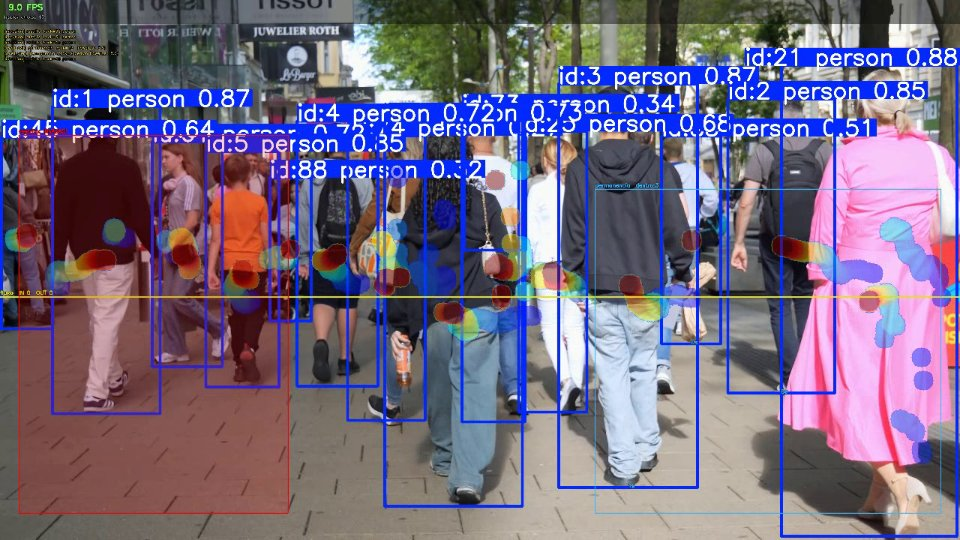
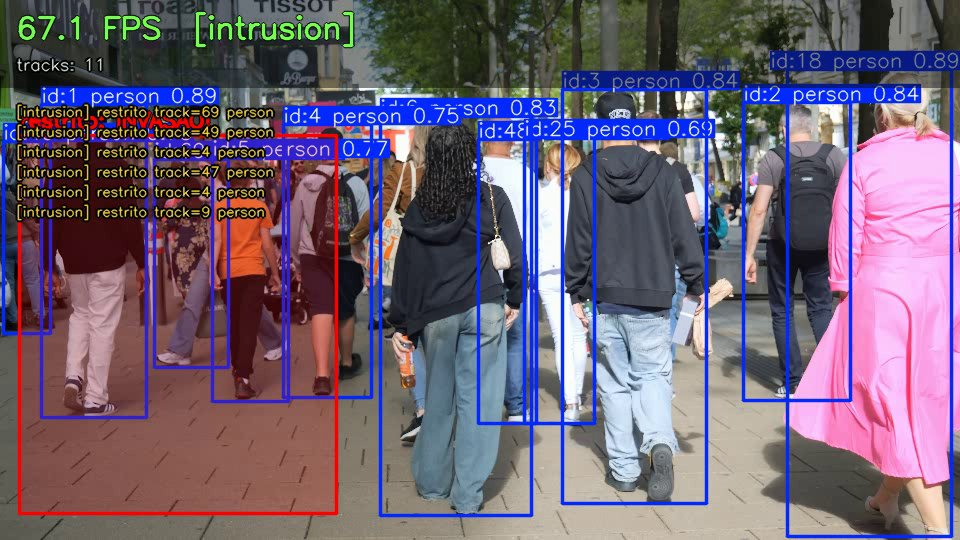
analytics: 1 solucao/video, event-only e keep-on-GPU (sem derrubar FPS)
- VideoAnalytics: annotate=False (event-only, so' eventos = producao), proc_max_side
  (processa em N px), decoder='auto' usa cudacodec + resize na GPU p/ arquivos
  (baixa frame pequeno -> elimina contencao PCIe/CPU do download 4K)
- examples/analytics_live.py: --solution (uma por vez), --no-annotate, --proc; mede FPS
- README: padrao 1 camera=1 solucao + numeros de performance

Resultado (4K real, RTX 3050, YOLO11n+ByteTrack): event-only ~120 fps, anotado ~67 fps
(antes ~12 fps baixando 4K + 4 solucoes). Itens 1-2 + alavanca keep-on-GPU do item 4.

diff --git a/examples/analytics_live.py b/examples/analytics_live.py
@@ -1,11 +1,14 @@
 #!/usr/bin/env python3
-"""Analytics ao vivo: YOLO11 + ByteTrack + soluções (contagem / dwell / heatmap / invasão).
+"""Analytics ao vivo — UMA solução por vídeo, com FPS medido.
 
-    .venv-yolo/bin/python examples/analytics_live.py [video.mp4|rtsp://...|webcam]
-    .venv-yolo/bin/python examples/analytics_live.py video.mp4 --record out.mp4
+    # produção (event-only, FPS cheio, sem desenhar):
+    .venv-yolo/bin/python examples/analytics_live.py video.mp4 --solution counting --no-annotate
 
-Mostra: caixas + IDs de track, linha de contagem (IN/OUT), zona de invasão (alerta),
-mapa de calor, e um HUD com FPS + últimos eventos. Teclas: q/ESC sai.
+    # ao vivo com janela (desenha; processa em 960px p/ não derrubar FPS):
+    .venv-yolo/bin/python examples/analytics_live.py video.mp4 --solution intrusion
+
+Soluções: counting | dwell | heatmap | intrusion   (uma por vez)
+Teclas (janela): q/ESC sai.
 """
 from __future__ import annotations
 import os, sys, time, argparse, glob, collections
@@ -18,6 +21,20 @@ except ModuleNotFoundError:
 import cv2
 from gpuvideo.analytics import (VideoAnalytics, LineCounter, IntrusionZone,
                                 Heatmap, DwellZone)
+
+
+def make_solution(kind, alerts):
+    if kind == "counting":
+        return LineCounter([(0.0, 0.55), (1.0, 0.55)], name="fluxo")
+    if kind == "dwell":
+        return DwellZone([(0.3, 0.3), (0.95, 0.3), (0.95, 0.95), (0.3, 0.95)],
+                         name="permanencia", alert_s=5)
+    if kind == "heatmap":
+        return Heatmap()
+    if kind == "intrusion":
+        return IntrusionZone([(0.02, 0.25), (0.35, 0.25), (0.35, 0.95), (0.02, 0.95)],
+                             name="restrito", on_alert=lambda e: alerts.append(e))
+    raise SystemExit(f"solução desconhecida: {kind}")
 
 
 def pick_source(arg):
@@ -38,65 +55,70 @@ def shadow(img, txt, org, scale, color, th=2):
 def main():
     ap = argparse.ArgumentParser()
     ap.add_argument("source", nargs="?", default=None)
+    ap.add_argument("--solution", default="counting",
+                    choices=["counting", "dwell", "heatmap", "intrusion"])
     ap.add_argument("--model", default="yolo11n.pt")
+    ap.add_argument("--proc", type=int, default=960, help="lado maior p/ processar (acelera)")
+    ap.add_argument("--no-annotate", action="store_true", help="event-only (produção)")
     ap.add_argument("--record", default=None)
     ap.add_argument("--seconds", type=float, default=20.0)
     a = ap.parse_args()
 
     src = pick_source(a.source)
-    print(f"Fonte: {src} | modelo: {a.model}")
-
-    # Soluções (coords normalizadas 0-1): linha no meio, zona de invasão à esquerda, heatmap.
     alerts = []
-    va = (VideoAnalytics(src, model=a.model, classes=["person"])
-          .add(Heatmap())
-          .add(LineCounter([(0.0, 0.55), (1.0, 0.55)], name="fluxo"))
-          .add(DwellZone([(0.62, 0.35), (0.98, 0.35), (0.98, 0.95), (0.62, 0.95)],
-                         name="permanencia", alert_s=5))
-          .add(IntrusionZone([(0.02, 0.25), (0.30, 0.25), (0.30, 0.95), (0.02, 0.95)],
-                             name="restrito", on_alert=lambda e: alerts.append(e))))
+    annotate = not a.no_annotate          # event-only desliga o desenho (FPS cheio)
+    va = VideoAnalytics(src, model=a.model, classes=["person"],
+                        annotate=annotate, proc_max_side=a.proc)
+    va.add(make_solution(a.solution, alerts))
+    print(f"Fonte: {src} | solução: {a.solution} | annotate={annotate} | proc={a.proc}px")
 
-    use_window = not a.record and (os.environ.get("DISPLAY") or os.environ.get("WAYLAND_DISPLAY"))
+    use_window = annotate and not a.record and (os.environ.get("DISPLAY") or os.environ.get("WAYLAND_DISPLAY"))
     if use_window:
         cv2.namedWindow("gpuvideo analytics", cv2.WINDOW_AUTOSIZE)
     writer = None
-    times = collections.deque(maxlen=30)
+    times = collections.deque(maxlen=60)
     log = collections.deque(maxlen=6)
     t0 = time.perf_counter()
+    n = 0
 
     for frame, tracks, events in va.run():
-        now = time.perf_counter(); times.append(now)
+        now = time.perf_counter(); times.append(now); n += 1
         fps = (len(times) - 1) / (times[-1] - times[0]) if len(times) > 1 else 0.0
         for e in events:
             log.appendleft(str(e)); print(e, flush=True)
 
-        # HUD
-        h, w = frame.shape[:2]
-        sub = frame[0:96, 0:w].copy(); cv2.rectangle(sub, (0, 0), (w, 96), (15, 15, 15), -1)
-        frame[0:96, 0:w] = cv2.addWeighted(sub, 0.5, frame[0:96, 0:w], 0.5, 0)
-        shadow(frame, f"{fps:4.1f} FPS", (16, 40), 1.1, (80, 255, 120), 3)
-        shadow(frame, f"tracks ativos: {len(tracks)}", (16, 74), 0.6, (230, 230, 230), 1)
-        for i, line in enumerate(log):
-            shadow(frame, line[:70], (16, 130 + i * 22), 0.5, (60, 220, 255), 1)
-
-        disp = frame if w <= 1280 else cv2.resize(frame, (1280, int(h * 1280 / w)))
-        if use_window:
-            cv2.imshow("gpuvideo analytics", disp)
-            if (cv2.waitKey(1) & 0xFF) in (ord("q"), 27):
-                break
-        else:
-            if writer is None:
-                writer = cv2.VideoWriter(a.record, cv2.VideoWriter_fourcc(*"mp4v"),
-                                         25, (disp.shape[1], disp.shape[0]))
-            writer.write(disp)
+        if frame is not None:  # modo annotate
+            h, w = frame.shape[:2]
+            sub = frame[0:88, 0:w].copy(); cv2.rectangle(sub, (0, 0), (w, 88), (15, 15, 15), -1)
+            frame[0:88, 0:w] = cv2.addWeighted(sub, 0.5, frame[0:88, 0:w], 0.5, 0)
+            shadow(frame, f"{fps:4.1f} FPS  [{a.solution}]", (16, 38), 1.0, (80, 255, 120), 2)
+            shadow(frame, f"tracks: {len(tracks)}", (16, 70), 0.55, (230, 230, 230), 1)
+            for i, line in enumerate(log):
+                shadow(frame, line[:64], (16, 116 + i * 20), 0.45, (60, 220, 255), 1)
+            if use_window:
+                cv2.imshow("gpuvideo analytics", frame)
+                if (cv2.waitKey(1) & 0xFF) in (ord("q"), 27):
+                    break
+            elif a.record:
+                if writer is None:
+                    writer = cv2.VideoWriter(a.record, cv2.VideoWriter_fourcc(*"mp4v"),
+                                             25, (w, h))
+                writer.write(frame)
+                if time.perf_counter() - t0 >= a.seconds:
+                    break
+        else:  # event-only: imprime FPS periodicamente
+            if n % 30 == 0:
+                print(f"  ... {fps:.1f} fps | {n} frames", flush=True)
             if time.perf_counter() - t0 >= a.seconds:
                 break
 
+    dt = time.perf_counter() - t0
     if writer is not None:
         writer.release(); print("gravado em", a.record)
     if use_window:
         cv2.destroyAllWindows()
-    print(f"\nResumo: {len(alerts)} alerta(s) de invasão.")
+    print(f"\nMédia: {n/dt:.1f} fps em {dt:.1f}s | solução={a.solution} | "
+          f"{len(alerts)} alerta(s)")
 
 
 if __name__ == "__main__":

diff --git a/src/gpuvideo/analytics.py b/src/gpuvideo/analytics.py
@@ -273,7 +273,9 @@ class VideoAnalytics:
 
     def __init__(self, source, model="yolo11n.pt", classes: Optional[Sequence[str]] = None,
                  imgsz=640, device="0", tracker="bytetrack.yaml",
-                 backend="gstreamer", engine="gpu", solutions=None):
+                 backend="gstreamer", engine="gpu", solutions=None,
+                 annotate=True, proc_max_side: Optional[int] = None,
+                 decoder="auto"):
         self.source = source
         self.model_name = model
         self.classes = list(classes) if classes else None
@@ -283,6 +285,14 @@ class VideoAnalytics:
         self.backend = backend
         self.engine = engine
         self.solutions: List[Solution] = list(solutions) if solutions else []
+        # annotate=False -> só eventos (produção/bus), sem desenhar = FPS cheio.
+        # proc_max_side -> redimensiona o frame antes de processar (coords são
+        #   normalizadas, então não muda o resultado das soluções; só acelera).
+        self.annotate = annotate
+        self.proc_max_side = proc_max_side
+        # decoder: "auto" usa cudacodec (NVDEC nativo + resize na GPU, baixa só o
+        # frame pequeno -> evita contenção PCIe/CPU do download 4K); senão GStreamer.
+        self.decoder = decoder
 
     def add(self, solution: Solution) -> "VideoAnalytics":
         self.solutions.append(solution)
@@ -306,19 +316,40 @@ class VideoAnalytics:
         """Generator: (frame_anotado, tracks, events) por frame."""
         from ultralytics import YOLO
         from . import VideoStream
+        from .cudacodec import cudacodec_available, CudaCodecStream
         model = YOLO(self.model_name)
         class_ids = None
         if self.classes:
             inv = {v: k for k, v in model.names.items()}
             class_ids = [inv[c] for c in self.classes if c in inv]
 
-        stream = VideoStream(self.source, backend=self.backend, engine=self.engine)
+        # Decoder: cudacodec (resize na GPU, baixa frame pequeno) p/ arquivos.
+        proc = self.proc_max_side
+        use_cuda = (self.decoder in ("auto", "cuda") and cudacodec_available()
+                    and "://" not in str(self.source) and not str(self.source).startswith("/dev/"))
+        if use_cuda:
+            def _gpu_resize(g, _cv2):
+                if not proc:
+                    return g
+                w, h = g.size()
+                if max(w, h) <= proc:
+                    return g
+                sc = proc / max(w, h)
+                return _cv2.cuda.resize(g, (int(w * sc), int(h * sc)))
+            stream = CudaCodecStream(self.source, gpu_op=_gpu_resize, color="BGR")
+        else:
+            stream = VideoStream(self.source, backend=self.backend, engine=self.engine)
         stream.open()
         try:
             for frame in stream:
                 arr = frame.array
                 if arr.ndim == 2:
                     arr = cv2.cvtColor(arr, cv2.COLOR_GRAY2BGR)
+                if proc and not use_cuda:  # CPU resize só se não foi na GPU
+                    H, W = arr.shape[:2]
+                    if max(H, W) > proc:
+                        s = proc / max(H, W)
+                        arr = cv2.resize(arr, (int(W * s), int(H * s)))
                 h, w = arr.shape[:2]
                 t = time.time()
                 res = model.track(arr, persist=True, tracker=self.tracker,
@@ -326,11 +357,15 @@ class VideoAnalytics:
                                   device=self.device, verbose=False)
                 r = res[0]
                 tracks = self._extract(r, model.names)
-                annotated = r.plot()
                 events = []
                 for sol in self.solutions:
                     events.extend(sol.process(tracks, w, h, t))
-                    sol.draw(annotated)
+                # annotate só quando alguém vai ver (custa caro em alta res)
+                annotated = None
+                if self.annotate:
+                    annotated = r.plot()
+                    for sol in self.solutions:
+                        sol.draw(annotated)
                 yield annotated, tracks, events
         finally:
             stream.close()
